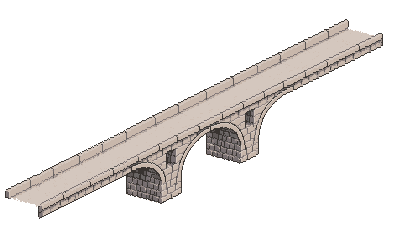
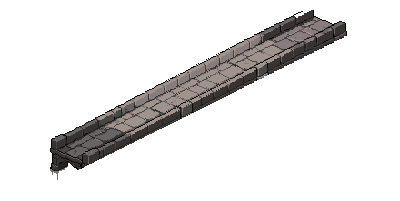
feat(carte): le pont de pierre refait au moule des nouveaux — ses arches etaient bouchees
Audit des deux anciens ponts, demande de Raph. Le BOIS n'a rien : son dessin ne
descend pas sous la chaussee (−5 px de mediane, +6 au maximum), c'est deja
« tablier + poteaux + cordes, rien dessous ». A l'oeil il a pourtant l'air d'une
masse brune pleine — c'est son tablier, qui est simplement large. La mesure a
refute l'oeil, une fois de plus. Il n'est pas touche.

LA PIERRE, elle, avait ses DEUX ARCHES BOUCHEES. Ce qu'on voyait a travers,
c'etait le pilier central de l'image de reference — celui que le LISEZMOI du kit
disait justement de ne pas garder, « les bateaux doivent passer ». Il survivait
parce qu'il tombe dans la culee, hors de la fenetre repetee que la decoupe
traverse. Le fleuve ne passait donc pas sous le pont de pierre.

Et ce bouchon ne s'ote pas tout seul : il est peint dans la PALETTE EXACTE de
l'ouvrage — sa teinte dominante est celle du corps du pont — en blocs clairs a
joints sombres. Un seuil de luminance n'enleve que les joints et laisse un pont
mite ; les composantes connexes ne separent rien non plus, tout le sombre est
d'un seul tenant. L'ouvrir demandait un masque trace a la main. Arbitrage :
refaire la pierre comme les trois nouvelles.

Elle repart donc de la meme structure validee, re-matieree en pierre de taille.
Les TEINTES ne bougent pas : la palette reste celle du design deja approuve,
seule la forme suit les autres. L'ancienne reference est gardee en archive.
[…]

Changed region(s): [[0.0, 0.0597, 0.96, 0.9254]]

diff --git a/src/game/map/iso/isoBridge.js b/src/game/map/iso/isoBridge.js
@@ -318,43 +318,28 @@ const BRIDGE_SPRITES = {
       pedC: -13, pedHalf: 18,
     },
   },
-  // PIERRE (bandes 2-3) : même moule, parapets pleins. Pas de calque -rail
-  // pour l'instant (le parapet plein masque déjà par sa hauteur dessinée) —
-  // à ajouter si un traverseur passe visiblement DEVANT le muret aval.
-  // PIERRE (bandes 2-3) : base = IMAGE DE RÉFÉRENCE 400 px (mode map_object,
-  // canvas LIBRE), détourée puis redressée. C'est le seul format qui donne le
-  // ratio longueur/hauteur (~10) d'un pont LONG et BAS : le générateur de
-  // sprites, contraint à un canvas carré, plafonnait à ~2,7 et ne sortait que
-  // des ouvrages monumentaux à rampes raides.
-  // `tilePx` 37 (au lieu de 28) : cette image est plus dense — c'est ce
-  // réglage qui met le tablier à ~1 tuile de haut, comme le pont de bois.
+  // PIERRE (bandes 2-3) — REFAITE le 2026-08-30, même moule que les trois
+  // suivantes. L'ancienne version venait d'une image à DEUX ARCHES dont les
+  // ouvertures étaient bouchées par le pilier central du dessin : on voyait de
+  // la maçonnerie à travers, pas le fleuve. Ce bouchon est peint dans la
+  // palette exacte de l'ouvrage — aucun tri de teinte ne l'isole (cf.
+  // prepBridgeIso) — et l'ouvrir demandait un masque tracé main. Arbitrage de
+  // Raph : la refaire comme les nouvelles. Donc plus d'arches, mais le fleuve
+  // passe, et les cinq stades se lisent d'un même œil.
+  // Les TEINTES ne bougent pas : la palette reste celle du design qu'il avait
+  // approuvé, seule la forme suit les autres.
   pierre: {
     ne: {
       key: 'bridge-pierre-ne', sgn: -1,
-      // ⚠ footHi.y DESCENDU de la hauteur du tablier (49 → 75) et humpH = 0 :
-      // le dessin n'a pas de rampes (tablier à 26 px du sol d'un bout à
-      // l'autre), il se raccordait donc à la route par une MARCHE. Posé au
-      // niveau du sol, le tablier affleure la chaussée et les arches plongent
-      // dans l'eau — ce que fait un vrai pont.
-      footHi: [378, 23], footLo: [8, 208],
-      over: [383, 5], capHi: 252, capLo: 31,
-      tilePx: 37, humpH: 0, dt: 0, pedC: -2, pedHalf: 14,
-      // ENTERREMENT (2026-08-22, retour Raph « un pont plat qui rejoigne les
-      // deux bords ») : px SOURCE sous la ligne d'axe où passe le BORD AVAL du
-      // tablier — le plan du sol du dessin. Mesuré au liseré sombre entre la
-      // face extérieure du parapet aval (+18..+24) et la face du caisson
-      // (+25 et au-delà) : cf. scan des contours, stable à ±1 px sur les
-      // 400 colonnes. Tout ce qui est dessiné plus bas (caisson, arches,
-      // piles) n'existe qu'au-dessus de l'eau : sur la berge il est caché,
-      // le tablier affleure la route, plus de marche. cf. buryClip.
-      bury: 25,
+      footHi: [348, 11], footLo: [50, 160],
+      over: [347, 50], capHi: 111, capLo: 111,
+      tilePx: 37, humpH: 0, dt: 0, pedC: 0, pedHalf: 11, bury: 23,
     },
     nw: {
       key: 'bridge-pierre-nw', sgn: +1,
-      footHi: [21, 23], footLo: [391, 208],
-      over: [17, 395], capHi: 253, capLo: 30,
-      tilePx: 37, humpH: 0, dt: 0, pedC: -2, pedHalf: 14,
-      bury: 25,   // miroir du ne : même liseré mesuré (+24/+25)
+      footHi: [51, 11], footLo: [349, 160],
+      over: [53, 350], capHi: 111, capLo: 111,
+      tilePx: 37, humpH: 0, dt: 0, pedC: 0, pedHalf: 11, bury: 23,
     },
   },
   // ── FER (4-5) · BÉTON (6) · ÉNERGIE (7-9) — 2026-08-28 ─────────────────────

diff --git a/src/game/map/__tests__/bridgeBury.test.js b/src/game/map/__tests__/bridgeBury.test.js
@@ -52,9 +52,14 @@ describe("enterrement du pont de pierre sur la berge", () => {
     expect(ra[1]).toBeGreaterThanOrEqual(g.a);
     expect(ra[1]).toBeLessThanOrEqual(g.wetA + TILE / 8 + 1e-9);
     // Tête b : de la dernière eau jusqu'au débord d'about (après b).
+    // ⚠ `>=` et non `>` : le débord vaut ZÉRO quand le dessin commence pile au
+    // pied. C'est le cas depuis que `trimUnder` coupe au bas de la barrière
+    // (2026-08-30) — la colonne extrême du dessin EST footLo, donc
+    // `over[1] === footLo[0]`. Un tronçon sec qui s'arrête à `g.b` est alors la
+    // bonne réponse, pas un défaut : il n'y a rien de dessiné au-delà à enterrer.
     expect(rb[0]).toBeGreaterThanOrEqual(g.wetB - TILE / 8 - 1e-9);
     expect(rb[0]).toBeLessThanOrEqual(g.b);
-    expect(rb[1]).toBeGreaterThan(g.b);
+    expect(rb[1]).toBeGreaterThanOrEqual(g.b);
     // Le milieu (mouillé) n'est PAS sec.
     const mid = (g.a + g.b) / 2;
     expect(ra[1]).toBeLessThan(mid);
